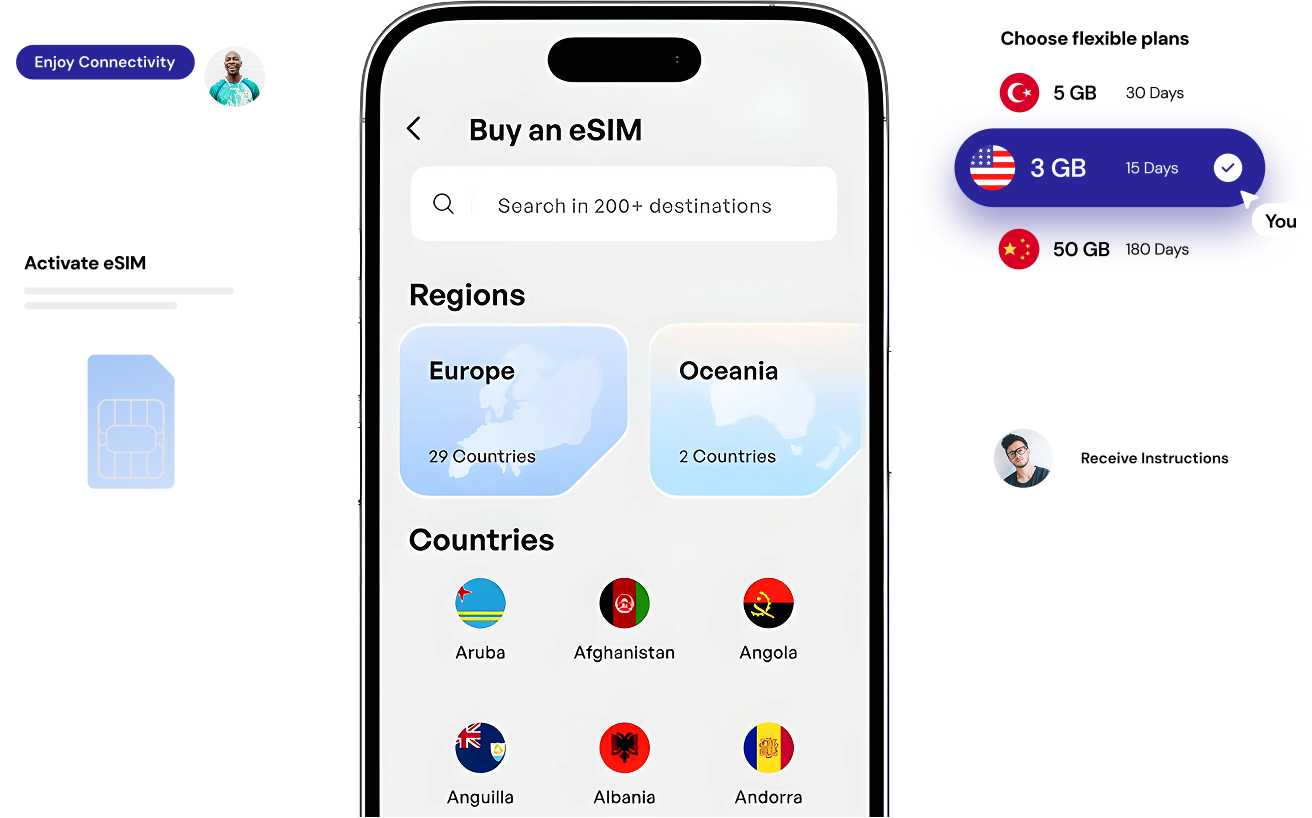
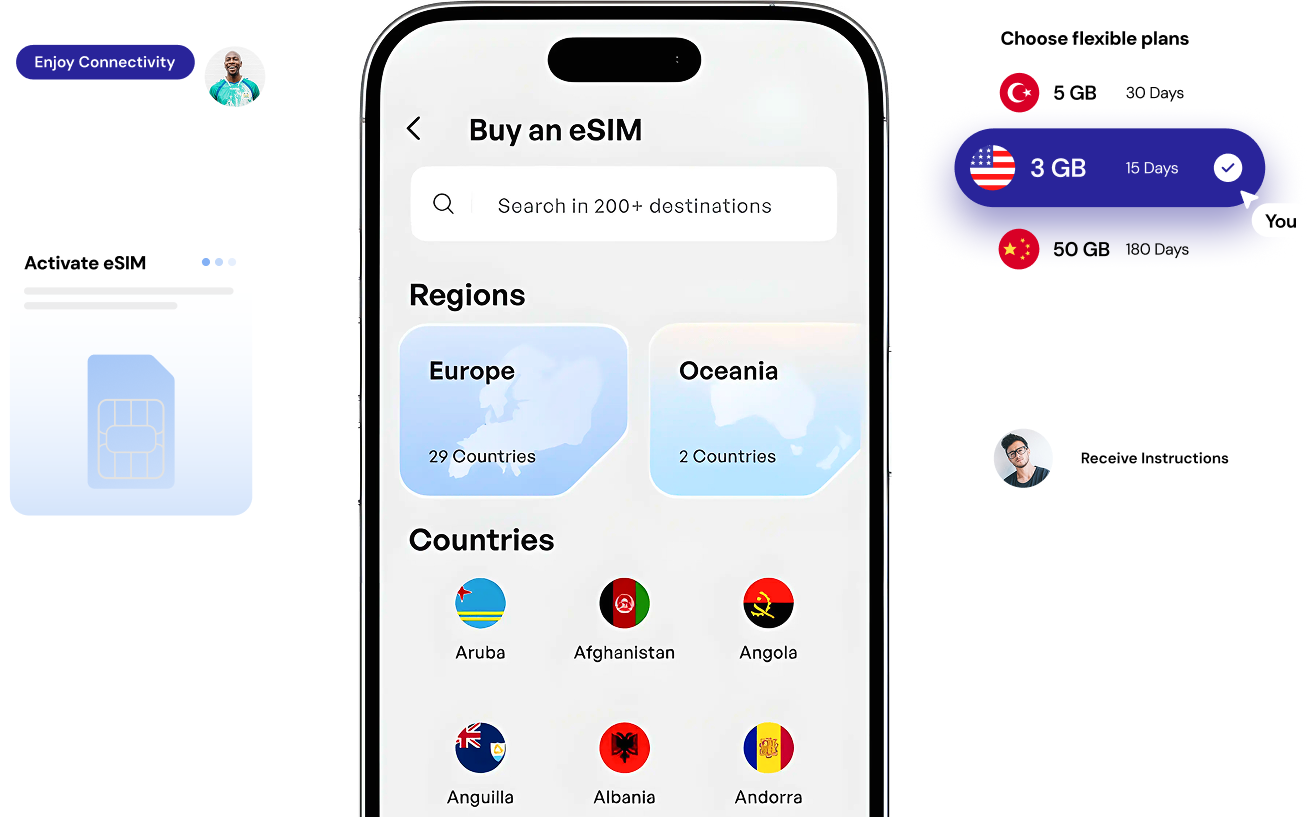
Roamex Landing Page

Changed region(s): [[0.0, 0.5501, 0.2188, 0.6418], [0.1562, 0.3056, 0.1875, 0.3362]]

diff --git a/roamex/index.html b/roamex/index.html
@@ -5,6 +5,7 @@
     <meta charset="UTF-8">
     <meta name="viewport" content="width=device-width, initial-scale=1.0">
     <title>Roamex</title>
+    <link rel="stylesheet" href="https://cdn.jsdelivr.net/npm/swiper@12/swiper-bundle.min.css" />
     <link rel="stylesheet" href="./css/boot.css">
     <link rel="stylesheet" href="./css/custom.css">
 </head>
@@ -89,7 +90,7 @@
 
     <!-- Body -->
 
-    <section class="    ">
+    <section class="">
         <div class="container hero-section mt-5">
             <span>
                 International eSIM card
@@ -103,17 +104,34 @@
             <div class="visit-destination">
                 <a href="#">View All Desitinations <img src="./public/images/Line 24.png" alt=""></a>
             </div>
+            <div class="mobile-screen mt-5 position-relative">
+                <img src="./public/images/section.png" alt="">
+            </div>
         </div>
+        <div class="payments">
+            <!-- <img src="./public/images/Ellipse 3.png" alt=""> -->
+        </div>
+         <div class="swiper mySwiper ms-2">
+                <div class="swiper-wrapper payment-bank-slider">
+                    <div class="swiper-slide"><img src="./public/images/visa.png" alt="bank logo"></div>
+                    <div class="swiper-slide"><img src="./public/images/master.png" alt="bank logo"></div>
+                    <div class="swiper-slide"><img src="./public/images/g pay.png" alt="bank logo"></div>
+                    <div class="swiper-slide" id="paypal"><img src="./public/images/paypal.png" alt="bank logo"></div>
+                    <div class="swiper-slide"><img src="./public/images/apple pay.png" alt="bank logo"></div>
+                    <div class="swiper-slide"><img src="./public/images/deal.png" alt="bank logo"></div>
+                    <div class="swiper-slide"><img src="./public/images/american express.png" alt="bank logo"></div>
+                    <div class="swiper-slide"><img src="./public/images/bancontact.png" alt="bank logo"></div>
+                </div>
+                <div class="swiper-pagination"></div>
+            </div>
     </section>
 
     <section>
-        <div class="container mt-5">
-            <div class="mobile-screen">
-                <img src="./public/images/section.png" alt="">
-            </div>
+        <div class="container">
            
         </div>
     </section>
+    <script src="https://cdn.jsdelivr.net/npm/swiper@12/swiper-bundle.min.js"></script>
     <script src="./js/boot.js"></script>
     <script src="./js/custom.js"></script>
 </body>

diff --git a/roamex/css/custom.css b/roamex/css/custom.css
@@ -186,6 +186,29 @@ h6 {
     justify-content: center;
 }
 
+.payments {}
+
+.payments {
+    background-image: url(../public/images/Ellipse\ 3.png);
+    background-repeat: no-repeat;
+    background-size: cover;
+    position: absolute;
+    height: 600px;
+    width: 1520px;
+    top: 115%;
+}
+
+/* Payment links slider */
+
+.payment-bank-slider {
+    display: flex;
+    align-items: center;
+}
+
+.payment-bank-slider img {
+    width: 60px;
+}
+
 @media screen and(min-width:1041px) {}
 
 @media screen and (max-width:1040px) {
@@ -203,6 +226,14 @@ h6 {
     #mob-navbar {
         display: block;
     }
+
+    .hero-section {
+        padding-top: 40px;
+    }
+
+    .payments {
+        display: none;
+    }
 }
 
 @media screen and (max-width:768px) {
@@ -219,6 +250,10 @@ h6 {
 
     #mob-navbar {
         display: block;
+    }
+
+    .hero-section {
+        padding-top: 40px;
     }
 
     .hero-section h1 {
@@ -242,6 +277,20 @@ h6 {
     .mobile-screen img {
         width: 400px;
     }
+
+    /* .payments {
+        height: 300px;
+        width: 410px;
+        top: 73%;
+        background-size: contain;
+    } */
+    .payments {
+        display: none;
+    }
+
+    .payment-bank-slider img {
+        width: 60px;
+    }
 }
 
 @media screen and (max-width:400px) {
@@ -262,6 +311,10 @@ h6 {
 
     #mob-navbar .navbar-brand img {
         width: 150px;
+    }
+
+    .hero-section {
+        padding-top: 40px;
     }
 
     .hero-section h1 {
@@ -285,5 +338,15 @@ h6 {
 
     .mobile-screen img {
         width: 300px;
+    }
+
+    /* .payments {
+        height: 300px;
+        width: min-content;
+        top: 81%;
+        background-size: contain;
+    } */
+    .payments {
+        display: none;
     }
 }

diff --git a/roamex/js/custom.js b/roamex/js/custom.js
@@ -1,0 +1,15 @@
+  var swiper = new Swiper('.mySwiper', {
+        spaceBetween: 30,
+        centeredSlides: true,
+        slidesPerView: 5,
+        loop:true,
+        autoplay: {
+          delay: 1000,
+          disableOnInteraction: false,
+        },
+        // pagination: {
+        //   el: '.swiper-pagination',
+        //   clickable: true,
+        // },
+       
+      });
